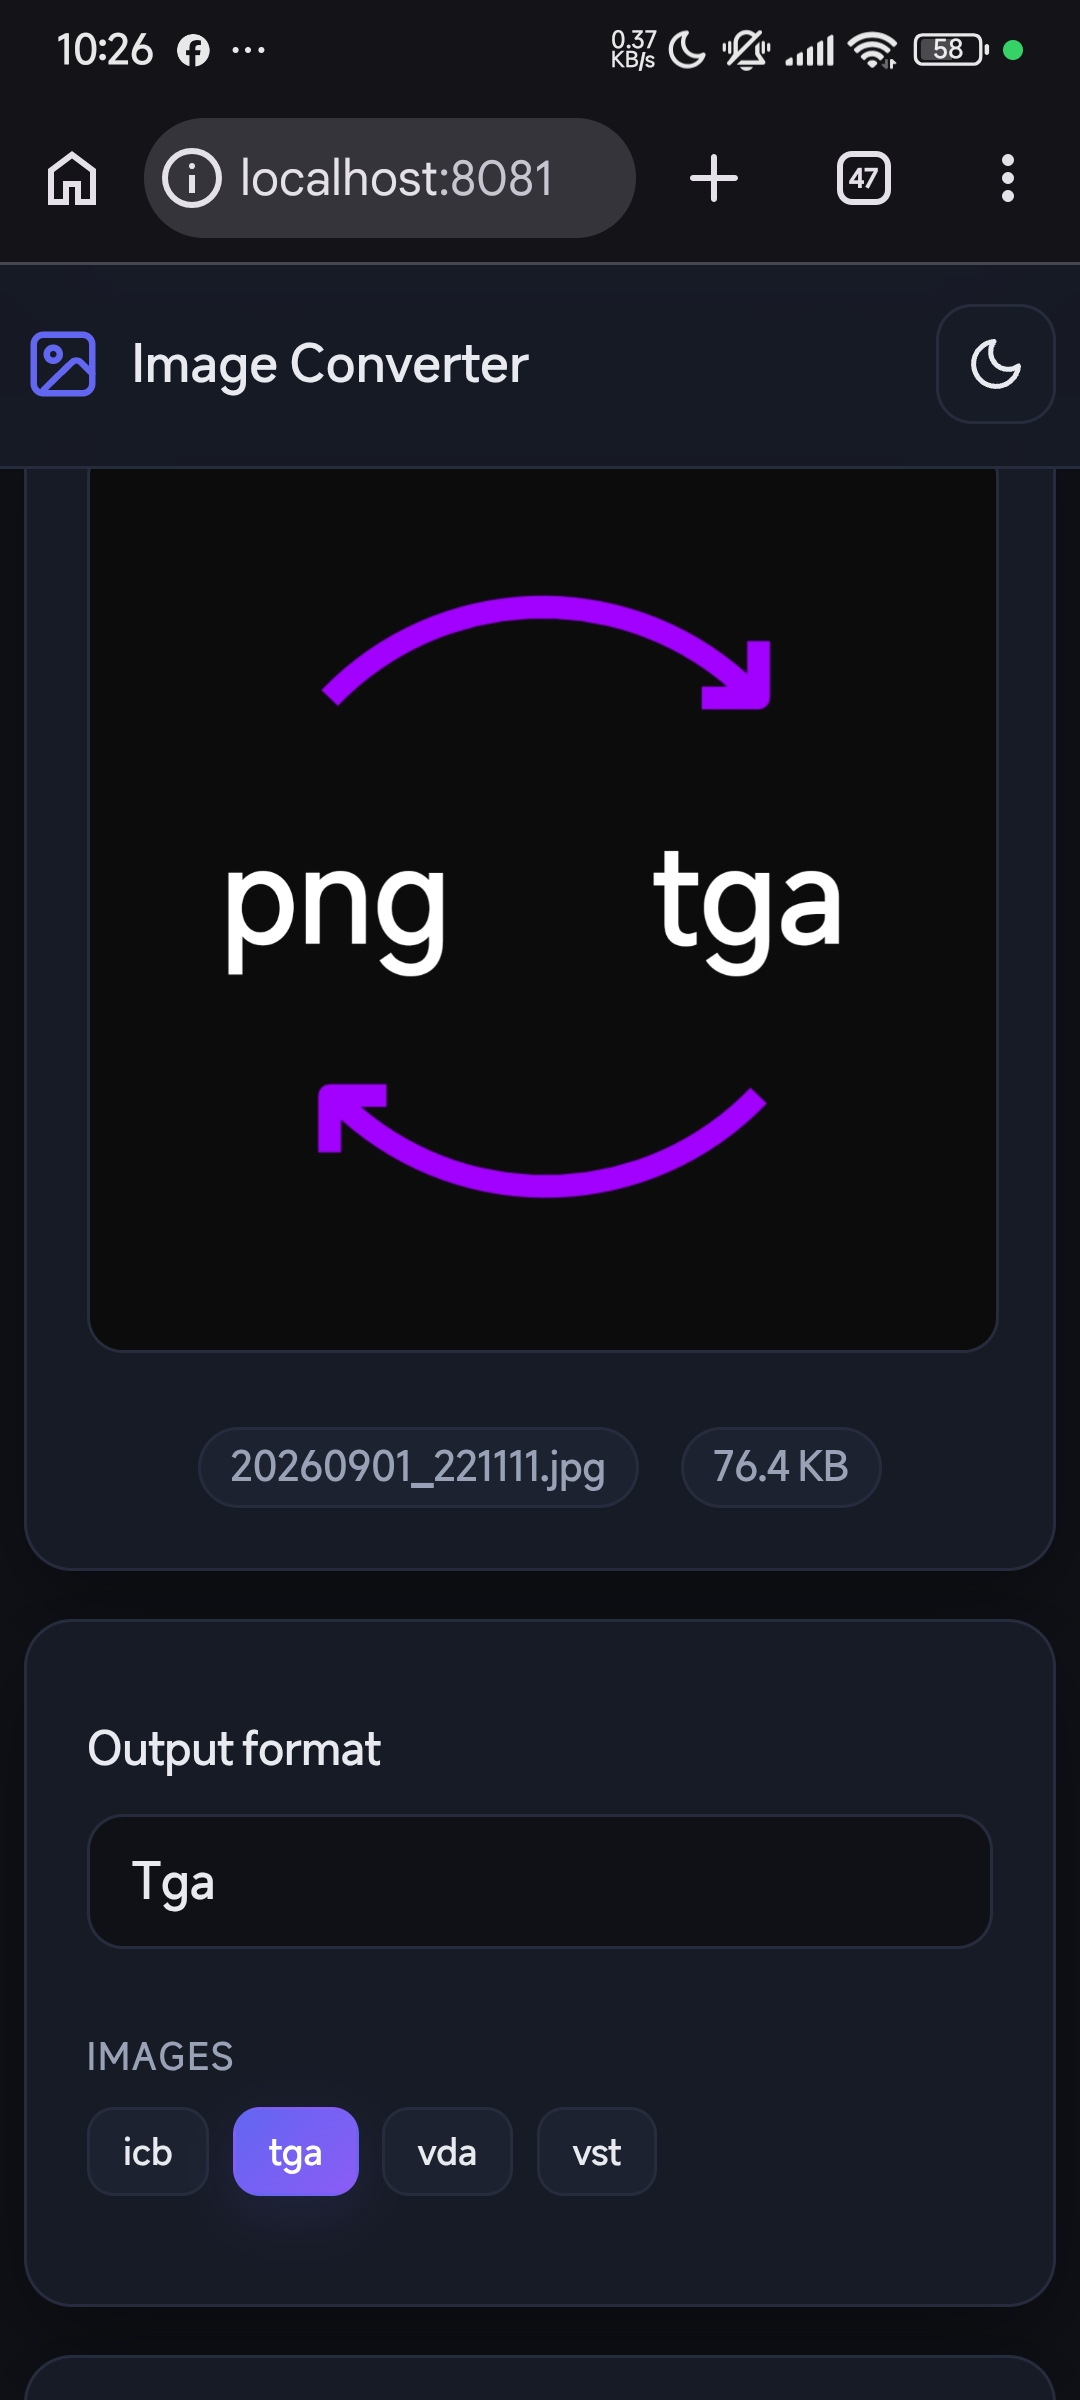
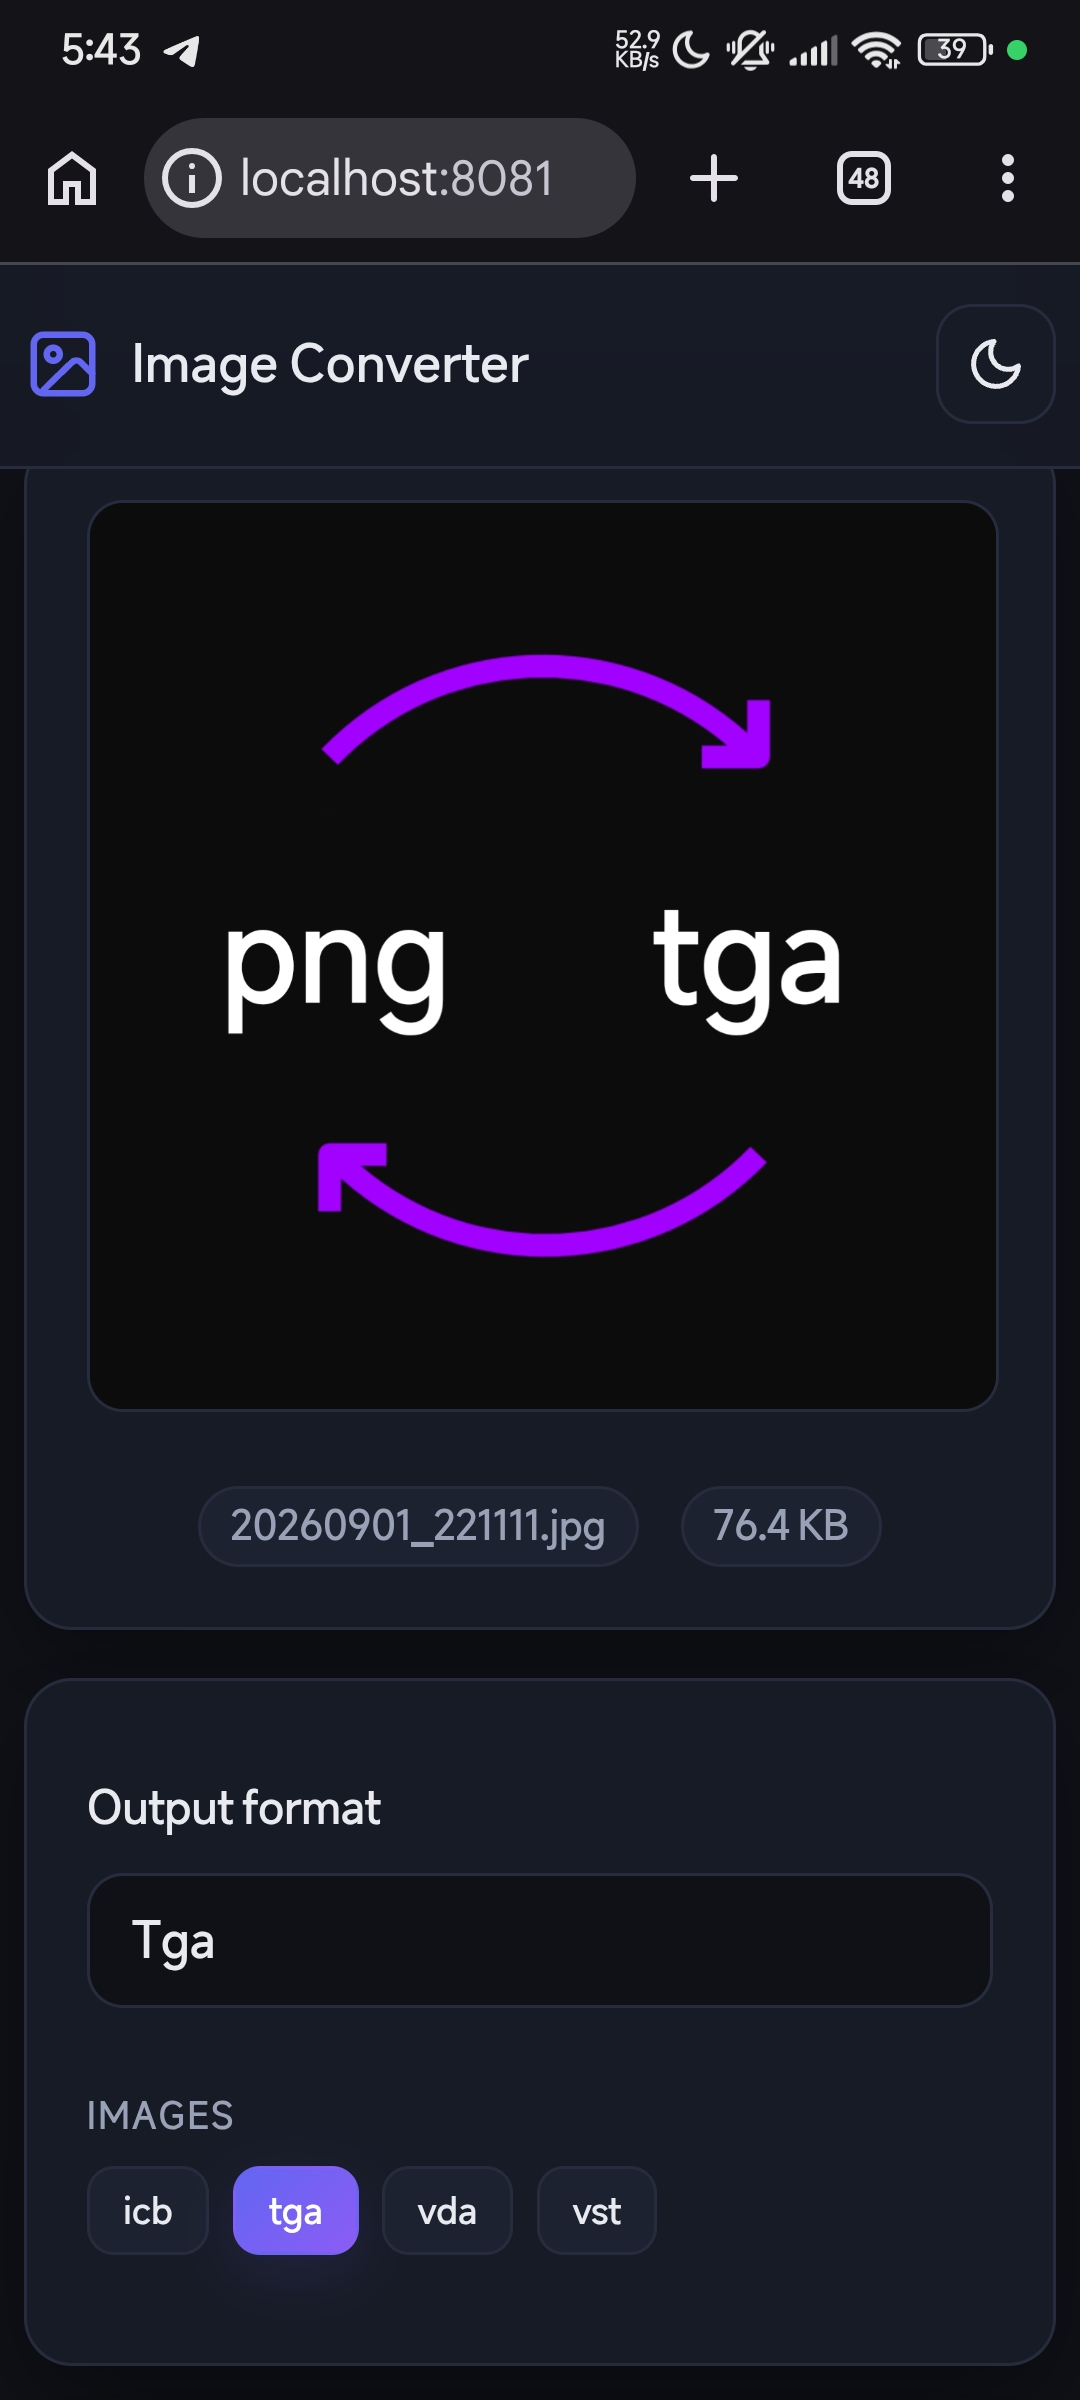
.

diff --git a/js/app.js b/js/app.js
@@ -17,8 +17,6 @@ const quality = $('quality');
 const qualityValue = $('qualityValue');
 const saveCard = $('saveCard');
 const saveDir = $('saveDir');
-const samePath = $('samePath');
-const deleteAfter = $('deleteAfter');
 const convertBtn = $('convertBtn');
 const btnLabel = convertBtn.querySelector('.btn-label');
 const spinner = convertBtn.querySelector('.spinner');
@@ -189,15 +187,6 @@ dropzone.addEventListener('drop', (e) => {
   e.preventDefault();
   dropzone.classList.remove('over');
   if (e.dataTransfer.files.length) handleFile(e.dataTransfer.files[0]);
-});
-
-samePath.addEventListener('change', () => {
-  if (samePath.checked) {
-    saveDir.disabled = true;
-  } else {
-    saveDir.disabled = false;
-    saveDir.value = '/sdcard/Download';
-  }
 });
 
 convertBtn.addEventListener('click', async () => {

diff --git a/index.html b/index.html
@@ -73,14 +73,6 @@
       <div class="save-path">
         <input type="text" id="saveDir" value="/sdcard/Download" autocomplete="off">
       </div>
-      <label class="toggle-row">
-        <input type="checkbox" id="samePath">
-        <span>Save in source file directory</span>
-      </label>
-      <label class="toggle-row">
-        <input type="checkbox" id="deleteAfter">
-        <span>Delete source after conversion</span>
-      </label>
     </section>
 
     <button class="convert" id="convertBtn" disabled>

diff --git a/README.md b/README.md
@@ -2,7 +2,7 @@
 
 ![logo](icon.jpg)
 
-A tool for converting image formats, supporting 176 formats via ImageMagick
+A tool for converting image formats, supporting 176 formats via ImageMagick.
 
 <p align="center">
   <img src="https://img.shields.io/github/downloads/null-box-repo/image-converter/total?label=Downloads"/>
